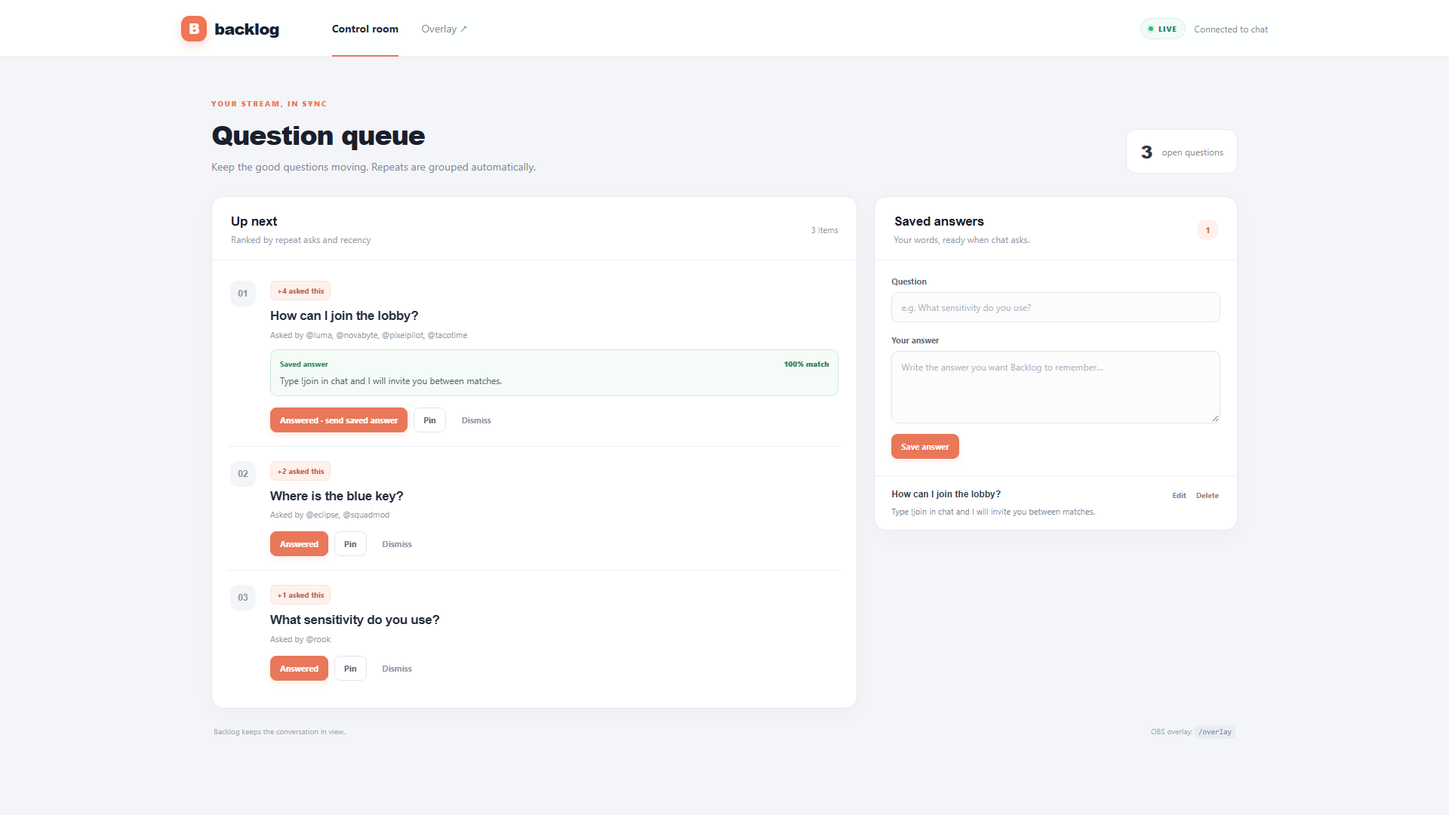
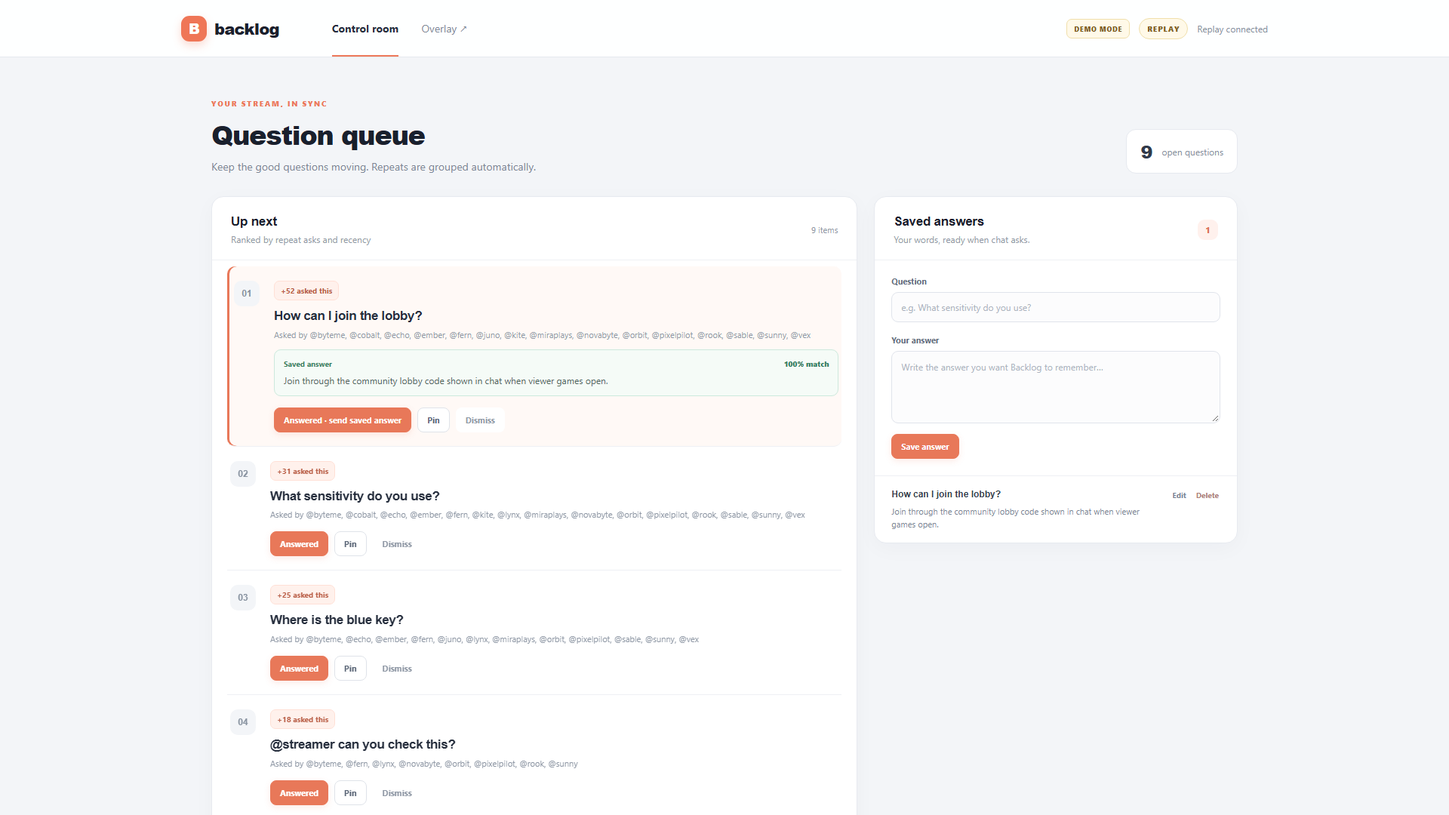
docs: polish Backlog demo and setup

diff --git a/src/web/main.tsx b/src/web/main.tsx
@@ -60,10 +60,12 @@ function CountBadge({ count }: { count: number }): JSX.Element {
 
 function Overlay(): JSX.Element {
   const { items, error } = useQueue();
+  const [mode, setMode] = useState<'demo' | 'live'>('demo');
   const visible = items.slice(0, 5);
   const listRef = useRef<HTMLDivElement>(null);
+  useEffect(() => { void api<{ mode: 'demo' | 'live' }>('/api/status').then((status) => setMode(status.mode)).catch(() => undefined); }, []);
   return <main className="overlay-shell">
-    <header className="overlay-header"><span className="brand-mark">B</span><div><p className="eyebrow">STREAMER Q&amp;A</p><h1>Backlog</h1></div><span className="live-pill"><i /> LIVE</span></header>
+    <header className="overlay-header"><span className="brand-mark">B</span><div><p className="eyebrow">STREAMER Q&amp;A</p><h1>Backlog</h1></div><span className={mode === 'demo' ? 'mode-badge demo' : 'live-pill'}>{mode === 'demo' ? 'DEMO REPLAY' : <><i /> LIVE CHAT</>}</span></header>
     {error && <p className="connection-note">{error}</p>}
     {visible.length === 0 ? <section className="overlay-empty"><span className="empty-symbol">✳</span><h2>Chat questions will land here</h2><p>We’ll group repeats so the best questions rise up.</p></section> :
       <div className="overlay-list" ref={listRef} style={{ height: `${visible.length * 130}px` }}>
@@ -79,6 +81,7 @@ function Overlay(): JSX.Element {
 
 function Control(): JSX.Element {
   const { items, error, setError } = useQueue();
+  const [selectedIndex, setSelectedIndex] = useState(0);
   const [answers, setAnswers] = useState<Answer[]>([]);
   const [question, setQuestion] = useState('');
   const [answer, setAnswer] = useState('');
@@ -92,6 +95,23 @@ function Control(): JSX.Element {
     try { await api(url, body ? { method: 'POST', body: JSON.stringify(body) } : { method: 'POST' }); setError(''); }
     catch (cause) { setError(cause instanceof Error ? cause.message : 'Action failed'); }
   };
+  useEffect(() => {
+    const onKeyDown = (event: KeyboardEvent): void => {
+      const target = event.target as HTMLElement | null;
+      if (target && (target.isContentEditable || ['INPUT', 'TEXTAREA', 'SELECT'].includes(target.tagName))) return;
+      if (event.key.toLowerCase() === 'j') { event.preventDefault(); setSelectedIndex((index) => Math.min(Math.max(0, items.length - 1), index + 1)); }
+      else if (event.key.toLowerCase() === 'k') { event.preventDefault(); setSelectedIndex((index) => Math.max(0, index - 1)); }
+      else {
+        const item = items[selectedIndex];
+        if (!item) return;
+        if (event.key.toLowerCase() === 'a') void mutate(`/api/items/${item.id}/answered`, item.suggestedAnswer ? { answerId: item.suggestedAnswer.id } : undefined);
+        else if (event.key.toLowerCase() === 'd') void mutate(`/api/items/${item.id}/dismiss`);
+        else if (event.key.toLowerCase() === 'p') void mutate(`/api/items/${item.id}/pin`);
+      }
+    };
+    window.addEventListener('keydown', onKeyDown);
+    return () => window.removeEventListener('keydown', onKeyDown);
+  }, [items, selectedIndex]);
   const saveAnswer = async (event: FormEvent): Promise<void> => {
     event.preventDefault();
     try {
@@ -102,14 +122,14 @@ function Control(): JSX.Element {
   };
 
   return <main className="control-page">
-    <header className="app-header"><a className="brand" href="/control"><span className="brand-mark">B</span><span>backlog</span></a><nav><a className="nav-active" href="/control">Control room</a><a href="/overlay" target="_blank">Overlay ↗</a></nav><div className="header-status"><span className={`mode-badge ${mode}`}>{mode === 'demo' ? 'DEMO MODE' : 'LIVE MODE'}</span><span className="live-pill"><i /> LIVE</span><span>{mode === 'demo' ? 'Replay connected' : 'Connected to chat'}</span></div></header>
+    <header className="app-header"><a className="brand" href="/control"><span className="brand-mark">B</span><span>backlog</span></a><nav><a className="nav-active" href="/control">Control room</a><a href="/overlay" target="_blank">Overlay ↗</a></nav><div className="header-status"><span className={`mode-badge ${mode}`}>{mode === 'demo' ? 'DEMO MODE' : 'LIVE MODE'}</span>{mode === 'demo' ? <span className="replay-pill">REPLAY</span> : <span className="live-pill"><i /> LIVE</span>}<span>{mode === 'demo' ? 'Replay connected' : 'Connected to chat'}</span></div></header>
     <div className="control-wrap">
       <section className="page-intro"><div><p className="eyebrow">YOUR STREAM, IN SYNC</p><h1>Question queue</h1><p>Keep the good questions moving. Repeats are grouped automatically.</p></div><div className="queue-total"><strong>{items.length}</strong><span>open questions</span></div></section>
       <Toast message={error} />
       <div className="control-grid">
         <section className="queue-panel panel"><div className="panel-heading"><div><h2>Up next</h2><p>Ranked by repeat asks and recency</p></div><span className="subtle-count">{items.length} items</span></div>
-          {items.length === 0 ? <div className="control-empty"><span className="empty-symbol">✳</span><h3>Your queue is clear</h3><p>When chat asks a question, it will show up here.</p></div> : <div className="queue-list">
-            {items.map((item, index) => <article className="queue-card" key={item.id}>
+          {items.length === 0 ? <div className="control-empty"><span className="empty-symbol">✳</span><h3>Your queue is clear</h3><p>When chat asks a question, it will show up here.</p><small>Tip: add a saved answer to speed up familiar questions.</small></div> : <div className="queue-list">
+            {items.map((item, index) => <article className={`queue-card ${index === selectedIndex ? 'keyboard-selected' : ''}`} key={item.id} onMouseEnter={() => setSelectedIndex(index)}>
               <div className="queue-rank">{String(index + 1).padStart(2, '0')}</div>
               <div className="queue-content"><div className="queue-meta"><CountBadge count={item.count} />{item.pinned && <span className="pinned-tag">Pinned</span>}</div><h3>{item.normalized || item.text}</h3><p className="asker-line">Asked by {item.askers.map((name) => `@${name}`).join(', ')}</p>{item.suggestedAnswer && <div className="suggested-answer"><div><span>Saved answer</span><strong>{Math.round(item.suggestedAnswer.score * 100)}% match</strong></div><p>{item.suggestedAnswer.answer}</p></div>}<div className="queue-actions"><button className="button button-primary" onClick={() => void mutate(`/api/items/${item.id}/answered`, item.suggestedAnswer ? { answerId: item.suggestedAnswer.id } : undefined)}>{item.suggestedAnswer ? 'Answered · send saved answer' : 'Answered'}</button><button className="button" onClick={() => void mutate(`/api/items/${item.id}/pin`)}>{item.pinned ? 'Unpin' : 'Pin'}</button><button className="button button-quiet" onClick={() => void mutate(`/api/items/${item.id}/dismiss`)}>Dismiss</button></div></div>
             </article>)}
@@ -117,10 +137,10 @@ function Control(): JSX.Element {
         </section>
         <aside className="answers-panel panel"><div className="panel-heading"><div><h2>Saved answers</h2><p>Your words, ready when chat asks.</p></div><span className="answer-count">{answers.length}</span></div>
           <form className="answer-form" onSubmit={(event) => void saveAnswer(event)}><label htmlFor="answer-question">Question</label><input id="answer-question" value={question} onChange={(event) => setQuestion(event.target.value)} placeholder="e.g. What sensitivity do you use?" required /><label htmlFor="answer-text">Your answer</label><textarea id="answer-text" value={answer} onChange={(event) => setAnswer(event.target.value)} placeholder="Write the answer you want Backlog to remember…" rows={4} required /><div className="form-actions"><button className="button button-primary" type="submit">{editingId ? 'Update answer' : 'Save answer'}</button>{editingId && <button className="button" type="button" onClick={() => { setEditingId(''); setQuestion(''); setAnswer(''); }}>Cancel</button>}{saved && <span className="saved-note">Saved</span>}</div></form>
-          <div className="saved-list">{answers.map((item) => <article className="saved-answer" key={item.id}><div><h3>{item.question}</h3><p>{item.answer}</p></div><div className="saved-actions"><button className="text-button" onClick={() => { setEditingId(item.id); setQuestion(item.question); setAnswer(item.answer); }}>Edit</button><button className="text-button text-danger" onClick={() => { void api(`/api/answers/${item.id}`, { method: 'DELETE' }).then(refreshAnswers).catch((cause: unknown) => setError(cause instanceof Error ? cause.message : 'Could not delete answer')); }}>Delete</button></div></article>)}</div>
+          <div className="saved-list">{answers.length === 0 ? <p className="answers-empty">No saved answers yet. Add one above and Backlog can suggest it when a similar question appears.</p> : answers.map((item) => <article className="saved-answer" key={item.id}><div><h3>{item.question}</h3><p>{item.answer}</p></div><div className="saved-actions"><button className="text-button" onClick={() => { setEditingId(item.id); setQuestion(item.question); setAnswer(item.answer); }}>Edit</button><button className="text-button text-danger" onClick={() => { void api(`/api/answers/${item.id}`, { method: 'DELETE' }).then(refreshAnswers).catch((cause: unknown) => setError(cause instanceof Error ? cause.message : 'Could not delete answer')); }}>Delete</button></div></article>)}</div>
         </aside>
       </div>
-      <footer className="page-footer"><span>Backlog keeps the conversation in view.</span><span>OBS overlay: <code>/overlay</code></span></footer>
+      <footer className="page-footer"><span>Shortcuts: <kbd>J</kbd>/<kbd>K</kbd> move · <kbd>A</kbd> answered · <kbd>D</kbd> dismiss · <kbd>P</kbd> pin</span><span>OBS overlay: <code>/overlay</code></span></footer>
     </div>
   </main>;
 }

diff --git a/src/eval.ts b/src/eval.ts
@@ -30,15 +30,16 @@ const raw = await readFile('data/real/labels.jsonl', 'utf8').catch(() => '');
 const labels = raw.split(/\r?\n/u).filter(Boolean).map((line) => JSON.parse(line) as Label);
 if (labels.length < 150) throw new Error(`Live evaluation needs 150 real labels in data/real/labels.jsonl; found ${labels.length}.`);
 const candidates = labels.map((item) => isCandidate({ text: item.text, channel: item.channel ?? 'eval' }));
-const stats = { input: 0, output: 0, embedding: 0 };
-const classifyBatch = async (items: Label[], context: OpenQuestionContext[] = []): Promise<Classification[]> => classify(items.map(message), {
+const fullStats = { input: 0, output: 0, embedding: 0 };
+const baselineStats = { input: 0, output: 0 };
+const classifyBatch = async (items: Label[], context: OpenQuestionContext[] = [], usage: { input: number; output: number } = fullStats): Promise<Classification[]> => classify(items.map(message), {
   apiKey: process.env.OPENAI_API_KEY!, model: process.env.OPENAI_MODEL,
-  onUsage: (usage) => { stats.input += usage.inputTokens; stats.output += usage.outputTokens; },
+  onUsage: (counts) => { usage.input += counts.inputTokens; usage.output += counts.outputTokens; },
 }, context);
 const selected = labels.filter((_item, i) => candidates[i]);
 const simpleResults: Classification[] = [];
 const startSimple = performance.now();
-for (let i = 0; i < selected.length; i += 30) simpleResults.push(...await classifyBatch(selected.slice(i, i + 30)));
+for (let i = 0; i < selected.length; i += 30) simpleResults.push(...await classifyBatch(selected.slice(i, i + 30), [], baselineStats));
 const simpleLatency = selected.length ? (performance.now() - startSimple) / Math.ceil(selected.length / 30) : 0;
 const simpleById = new Map(simpleResults.map((result) => [result.id, result]));
 const simplePred = labels.map((item, i) => candidates[i]! && (simpleById.get(item.id)?.isQuestion ?? false));
@@ -56,7 +57,7 @@ for (let i = 0; i < labels.length; i += 30) {
   batchTimes.push(performance.now() - began);
   const questionResults = results.map((result, j) => ({ result, index: indices[j]! })).filter(({ result }) => result.isQuestion);
   const vectors = await embedTexts(questionResults.map(({ result, index }) => result.normalized || labels[index]!.text), {
-    apiKey: process.env.OPENAI_API_KEY!, onUsage: (tokens) => { stats.embedding += tokens; },
+    apiKey: process.env.OPENAI_API_KEY!, onUsage: (tokens) => { fullStats.embedding += tokens; },
   });
   for (const [j, { result, index }] of questionResults.entries()) {
     fullResults[index] = result;
@@ -80,9 +81,9 @@ const systems = [
   { name: 'Full Backlog', detection: fullDetection, pair: pairAccuracy(labels, fullKeys), latency: batchTimes.length ? batchTimes.reduce((a, b) => a + b, 0) / batchTimes.length : 0 },
 ];
 const totalMessages = labels.length;
-const totalCost = stats.input * 0.1 / 1e6 + stats.output * 0.5 / 1e6 + stats.embedding * 0.02 / 1e6;
+const totalCost = fullStats.input * 0.1 / 1e6 + fullStats.output * 0.5 / 1e6 + fullStats.embedding * 0.02 / 1e6;
 const worst = labels.map((item, i) => ({ item, missed: item.isQuestion && !fullPred[i] })).filter((row) => row.missed).slice(0, 5);
-const lines = ['# Real chat evaluation', '', `Evaluated ${totalMessages} hand-labelled messages from anonymized Twitch IRC captures. Classifier: \`${process.env.OPENAI_MODEL ?? 'gpt-6-luna'}\`; duplicate merge uses embedding cosine >= 0.88.`, '', '| System | Question precision | Recall | F1 | Duplicate-pair accuracy | Avg batch latency |', '|---|---:|---:|---:|---:|---:|', ...systems.map((row) => `| ${row.name} | ${pct(row.detection.precision)} | ${pct(row.detection.recall)} | ${pct(row.detection.f1)} | ${pct(row.pair)} | ${row.latency.toFixed(0)} ms |`), '', `Measured API token cost: approximately $${(totalCost * 1000 / totalMessages).toFixed(4)} per 1,000 chat messages (classifier input ${stats.input}, output ${stats.output}, embedding ${stats.embedding} tokens).`, '', '## Worst five misses', '', ...(worst.length ? worst.map(({ item }) => `- ${item.text}`) : ['- None.']), ''];
+const lines = ['# Real chat evaluation', '', `Evaluated ${totalMessages} hand-labelled messages from anonymized Twitch IRC captures. Classifier: \`${process.env.OPENAI_MODEL ?? 'gpt-6-luna'}\`; duplicate merge uses embedding cosine >= 0.88.`, '', '| System | Question precision | Recall | F1 | Duplicate-pair accuracy | Avg batch latency |', '|---|---:|---:|---:|---:|---:|', ...systems.map((row) => `| ${row.name} | ${pct(row.detection.precision)} | ${pct(row.detection.recall)} | ${pct(row.detection.f1)} | ${pct(row.pair)} | ${row.latency.toFixed(0)} ms |`), '', `Full Backlog measured API cost: approximately $${(totalCost * 1000 / totalMessages).toFixed(4)} per 1,000 chat messages (classifier input ${fullStats.input}, output ${fullStats.output}, embedding ${fullStats.embedding} tokens). The no-context baseline used an additional input ${baselineStats.input} and output ${baselineStats.output} classifier tokens.`, '', '## Worst five misses', '', ...(worst.length ? worst.map(({ item }) => `- ${item.text}`) : ['- None.']), ''];
 const report = lines.join('\n');
 await mkdir('docs', { recursive: true });
 await writeFile('docs/EVAL.md', report, 'utf8');

diff --git a/src/web/styles.css b/src/web/styles.css
@@ -18,6 +18,7 @@ a { color: inherit; text-decoration: none; }
 .mode-badge.live { color: #287c5e; border: 1px solid #d7efe5; background: #f3fbf7; }
 .live-pill { display: inline-flex; align-items: center; gap: 7px; padding: 6px 10px; border: 1px solid #d7efe5; border-radius: 99px; color: #287c5e; background: #f3fbf7; font-size: 10px; font-weight: 800; letter-spacing: .8px; }
 .live-pill i { display: block; width: 6px; height: 6px; border-radius: 50%; background: #35b47c; box-shadow: 0 0 0 3px #35b47c22; }
+.replay-pill { padding: 6px 10px; border: 1px solid #f0dfaa; border-radius: 99px; color: #805d1b; background: #fff9e8; font-size: 10px; font-weight: 800; letter-spacing: .8px; }
 .control-wrap { max-width: 1440px; margin: 0 auto; padding: 54px 40px 26px; }
 .page-intro { display: flex; justify-content: space-between; align-items: end; margin-bottom: 30px; }
 .eyebrow { margin: 0 0 9px; color: #ec795a; font-size: 10px; font-weight: 800; letter-spacing: 1.7px; }
@@ -36,6 +37,7 @@ a { color: inherit; text-decoration: none; }
 .queue-list { padding: 8px 20px 18px; }
 .queue-card { display: grid; grid-template-columns: 40px 1fr; gap: 13px; padding: 19px 4px 18px; border-bottom: 1px solid #eef0f4; animation: appear .28s ease both; }
 .queue-card:last-child { border-bottom: 0; }
+.queue-card.keyboard-selected { border-radius: 10px; background: #fff9f6; box-shadow: inset 3px 0 #e87859; padding-left: 9px; }
 .queue-rank { display: grid; place-items: center; width: 34px; height: 34px; border-radius: 10px; color: #8993a1; background: #f3f5f8; font: 700 12px Manrope, sans-serif; }
 .queue-content { min-width: 0; }
 .queue-meta { display: flex; align-items: center; gap: 8px; min-height: 21px; }
@@ -57,6 +59,9 @@ a { color: inherit; text-decoration: none; }
 .empty-symbol { color: #ed886b; font-size: 30px; line-height: 1; }
 .control-empty h3 { margin: 16px 0 5px; color: #30394a; font: 700 16px Manrope, sans-serif; }
 .control-empty p { margin: 0; font-size: 12px; }
+.control-empty small { margin-top: 12px; color: #a0a7b1; font-size: 10px; }
+.answers-empty { padding: 16px 22px; color: #929aa6; font-size: 11px; line-height: 1.5; }
+kbd { display: inline-grid; place-items: center; min-width: 19px; padding: 2px 5px; border: 1px solid #dfe3e9; border-radius: 4px; background: white; color: #657080; font: 700 9px ui-monospace, monospace; }
 .answers-panel { overflow: hidden; }
 .answer-form { padding: 20px 22px 22px; display: flex; flex-direction: column; }
 .answer-form label { margin-bottom: 7px; color: #626d7d; font-size: 11px; font-weight: 700; }

diff --git a/src/config/env.ts b/src/config/env.ts
@@ -1,0 +1,17 @@
+import { readFile } from 'node:fs/promises';
+
+export async function loadEnvFile(path = '.env'): Promise<void> {
+  const content = await readFile(path, 'utf8').catch(() => '');
+  for (const rawLine of content.replace(/^\uFEFF/u, '').split(/\r?\n/u)) {
+    const line = rawLine.trim();
+    if (!line || line.startsWith('#')) continue;
+    const match = /^(?:export\s+)?([A-Z_][A-Z0-9_]*)\s*=\s*(.*)$/iu.exec(line);
+    if (!match) continue;
+    const key = match[1]!;
+    if (process.env[key] !== undefined) continue;
+    let value = match[2]!.trim();
+    if ((value.startsWith('"') && value.endsWith('"')) || (value.startsWith("'") && value.endsWith("'"))) value = value.slice(1, -1);
+    else value = value.replace(/\s+#.*$/u, '');
+    process.env[key] = value;
+  }
+}

diff --git a/src/record-chat.ts b/src/record-chat.ts
@@ -10,7 +10,7 @@ if (!channel || !/^[a-z0-9_]{1,25}$/u.test(channel) || !Number.isFinite(minutes)
 }
 const socket = new WebSocket('wss://irc-ws.chat.twitch.tv');
 const messages: IrcChatLine[] = [];
-const target = join('data', 'real', `${channel}-${new Date().toISOString().slice(0, 10)}.jsonl`);
+const target = join('data', 'real', `${channel}-${new Date().toISOString().replace(/[:.]/gu, '-').slice(0, 19)}.jsonl`);
 socket.on('open', () => {
   socket.send(`NICK justinfan${Math.floor(Math.random() * 1_000_000_000)}`);
   socket.send(`JOIN #${channel}`);

diff --git a/src/server/main.ts b/src/server/main.ts
@@ -13,6 +13,9 @@ import { HelixChatSender } from '../bot/helix.js';
 import { SavedAnswerQueue } from '../bot/saved-answer-queue.js';
 import { getBacklogMode } from '../config/mode.js';
 import { createApp } from './app.js';
+import { loadEnvFile } from '../config/env.js';
+
+await loadEnvFile();
 
 const dbPath = resolve(process.env.BACKLOG_DB_PATH ?? 'data/backlog.sqlite');
 await mkdir(dirname(dbPath), { recursive: true });

diff --git a/docs/BUILD-LOG.md b/docs/BUILD-LOG.md
@@ -1,14 +1,14 @@
 # Build log
 
-- Step 9: Added anonymous read-only Twitch IRC capture (`pnpm record-chat`), sender and explicit-mention pseudonyms before disk writes, a 150-message stratified interactive `pnpm label` CLI, and live-only real-data evaluation for rules-only, no-context classifier, and full Backlog with detection/merge metrics, latency, measured token cost, and worst misses. Added a 400-message explicitly synthetic replay fixture plus `pnpm replay`. Verified the demo guard: `pnpm eval` exits with “requires BACKLOG_MODE=live.” `pnpm lint`, `pnpm test` (84 passed), and `pnpm exec tsc --noEmit` passed. IRC parser and pseudonymization tests use no network; record-chat was not run. Commit: `feat: add anonymized chat evaluation workflow`.
-
-- Step 1: Added the TypeScript/pnpm repo scaffold, lockfile, lint/test scripts, env template, MIT license, and README skeleton; validated the manifest and required files. Initial install was blocked by pnpm's build policy; resolved in step 0. Commit: `chore: scaffold Backlog project`.
 - Step 0: Allowed the esbuild install script (pnpm 11 uses `allowBuilds` in `pnpm-workspace.yaml`; the requested package field is retained) and installed dependencies. `pnpm lint` passed; `pnpm test` passed with 0 tests before feature work. Commit: `build: allow esbuild install script`.
+- Step 1: Added the TypeScript/pnpm repo scaffold, lockfile, lint/test scripts, env template, MIT license, and README skeleton; validated the manifest and required files. Initial install was blocked by pnpm's build policy; resolved in step 0. Commit: `chore: scaffold Backlog project`.
 - Step 2: Added the normalized `ChatMessage`/`ChatSource`, Twitch EventSub WebSocket source (subscription, mapping, bot filtering, keepalive recovery, reconnect transfer, revocation), and timed JSONL replay source. `pnpm lint` passed; `pnpm test` passed (5 tests, no network). Commit: `feat: add EventSub and replay chat sources`.
 - Step 3: Added the cheap question candidate filter for openers, question marks, and channel mentions, with early rejection of commands, links, emote walls, short fragments, and repeated-character spam. `pnpm lint` passed; `pnpm test` passed (50 tests, including 45 candidate examples). Commit: `feat: add question candidate prefilter`.
 - Step 4: Added strict JSON-schema OpenAI classification, a two-second candidate batch pipeline, and per-channel `topicKey` merging with unique askers and repeat counts. Mocked classifier and merger tests; `pnpm lint`, `pnpm test` (56 passed), and `pnpm exec tsc --noEmit` passed. Commit: `feat: classify and merge chat questions`.
 - Step 4b: Added recent-open-item context (up to 30), cached normalized-text embeddings with semantic merge at cosine `>= 0.88`, merge score logging, and a shared OpenAI call guard (default 30/minute) with cumulative token logs. Mocked cross-batch duplicate, non-duplicate, context, boundary, and cost-guard checks; `pnpm lint`, `pnpm test` (61 passed), and `pnpm exec tsc --noEmit` passed. Commit: `fix: merge duplicate questions across batches`.
 - Step 5: Added the SQLite store for questions, per-user asker counts, saved answers, and events; five-minute half-life ranking with pinned items first; Fastify queue/item/answer REST routes; and live queue snapshots over WebSocket. `pnpm lint`, `pnpm test` (67 passed, including API/WebSocket integration), and `pnpm exec tsc --noEmit` passed. Commit: `feat: add SQLite queue API and WebSocket updates`.
-- Step 6: Built the responsive React `/overlay` and `/control` pages, queue actions, saved-answer editor, reconnecting WebSocket client, and production static serving. Ran an offline preview replay through the real pre-filter/batch/merge/store pipeline; fixed replay timestamps to rank relative to replay start. `pnpm lint`, `pnpm test` (68 passed), `pnpm exec tsc --noEmit`, and `pnpm build:web` passed. Captured [overlay](screenshots/backlog-overlay.png) and [control](screenshots/backlog-control.png) at 1920×1080. Commit: `feat: add streamer overlay and control UI`.
-- Step 7: Saved reference-question embeddings; added cached cosine answer matching (default threshold `0.82`) surfaced with a score; and connected the answered action to a queued Helix bot sender at one message per 10 seconds. Sending accepts a saved-answer ID only and reloads that answer from SQLite before posting. Mocked embedding, queue, and Helix checks; `pnpm lint`, `pnpm test` (76 passed), `pnpm exec tsc --noEmit`, and `pnpm build:web` passed. Refreshed both 1920×1080 screenshots with the saved-answer suggestion visible. Commit: `feat: suggest and send saved answers`.
-- Step 8: Added `!q` position/not-seen replies and mod/broadcaster-only `!qclear`. A successfully sent saved answer queues one follow-up mention for up to five unique askers plus an “and N others” count; all bot output shares the 10-second queue and uses fixed templates. Set `BACKLOG_MODE=demo|live`, show the mode on `/control`, added a live-only eval guard, and moved the default classifier to GPT-6 Luna. Demo-mode embeddings are deterministic local hash-bucket word vectors used only for offline UI previews; they are not OpenAI embeddings, are not semantically calibrated, and cannot be used for evaluation. `pnpm lint`, `pnpm test` (82 passed), `pnpm exec tsc --noEmit`, and `pnpm build:web` passed. Commit: `feat: add viewer queue commands and safe replies`.
+- Step 6: Built the responsive React `/overlay` and `/control` pages, queue actions, saved-answer editor, reconnecting WebSocket client, and production static serving. Ran an offline preview replay through the real pre-filter/batch/merge/store pipeline; fixed replay timestamps to rank relative to replay start. `pnpm lint`, `pnpm test` (68 passed), `pnpm exec tsc --noEmit`, and `pnpm build:web` passed. Captured the 1920x1080 overlay and control screenshots. Commit: `feat: add streamer overlay and control UI`.
+- Step 7: Saved reference-question embeddings; added cached cosine answer matching (default threshold `0.82`) surfaced with a score; and connected the answered action to a queued Helix bot sender at one message per 10 seconds. Sending accepts a saved-answer ID only and reloads that answer from SQLite before posting. Mocked embedding, queue, and Helix checks; `pnpm lint`, `pnpm test` (76 passed), `pnpm exec tsc --noEmit`, and `pnpm build:web` passed. Refreshed both screenshots with the saved-answer suggestion visible. Commit: `feat: suggest and send saved answers`.
+- Step 8: Added `!q` position/not-seen replies and mod/broadcaster-only `!qclear`. A successfully sent saved answer queues one follow-up mention for up to five unique askers plus an `and N others` count; all bot output shares the 10-second queue and uses fixed templates. Set `BACKLOG_MODE=demo|live`, show the mode on `/control`, added a live-only eval guard, and moved the default classifier to GPT-6 Luna. Demo-mode embeddings are deterministic local hash-bucket word vectors used only for offline UI previews; they are not OpenAI embeddings, are not semantically calibrated, and cannot be used for evaluation. `pnpm lint`, `pnpm test` (82 passed), `pnpm exec tsc --noEmit`, and `pnpm build:web` passed. Commit: `feat: add viewer queue commands and safe replies`.
+- Step 9: Added anonymous read-only Twitch IRC capture (`pnpm record-chat`), sender and explicit-mention pseudonyms before disk writes, a 150-message stratified interactive `pnpm label` CLI, and live-only real-data evaluation for rules-only, no-context classifier, and full Backlog with detection/merge metrics, latency, measured token cost, and worst misses. Added a 400-message explicitly synthetic replay fixture plus `pnpm replay`. Verified the demo guard: `pnpm eval` exits with `requires BACKLOG_MODE=live`. `pnpm lint`, `pnpm test` (84 passed), and `pnpm exec tsc --noEmit` passed. IRC parser and pseudonymization tests use no network; record-chat was not run. Commit: `feat: add anonymized chat evaluation workflow`.
+- Step 10: Added `/control` empty states, reconnect/error feedback, queue keyboard shortcuts (J/K move, A answer, D dismiss, P pin), accurate demo/live status badges, automatic `.env` loading, final setup/live/demo/evaluation documentation, the three-minute demo plan, and an explicit no-real-data-yet `docs/EVAL.md` placeholder. Refreshed overlay and control screenshots at 1920x1080 from the 400-message synthetic replay, including a saved-answer suggestion. `pnpm lint`, `pnpm test` (84 passed), `pnpm exec tsc --noEmit`, and `pnpm build:web` passed. Commit: `docs: polish Backlog demo and setup`.

diff --git a/README.md b/README.md
@@ -1,12 +1,100 @@
 # Backlog
 
 Backlog turns Twitch chat questions into a ranked queue for streamers.
-Repeated questions merge together, and saved answers can be suggested safely.
+It groups repeats and suggests only answers the streamer has saved.
 
-## Preview
+![Backlog control room](docs/screenshots/backlog-control.png)
 
-<!-- Add a screenshot or demo GIF here. -->
+![OBS overlay](docs/screenshots/backlog-overlay.png)
 
-## Status
+## Setup
 
-Repository scaffold. Setup and run instructions will be completed as features land.
+Requirements: Node.js 22 or newer and pnpm.
+
+1. Create a Twitch application in the Twitch Developer Console. Set the OAuth redirect URL to `http://localhost:3001/auth/twitch/callback` if you use an external OAuth helper; this build currently accepts configured tokens from the environment and does not implement the login/callback flow.
+2. Create a bot account. Authorize the bot user token with `user:read:chat` and `user:write:chat`. Configure a streamer/broadcaster token with the EventSub chat permission required for the channel. The current single `TWITCH_ACCESS_TOKEN` setting is used for both EventSub subscription and Helix chat sending, so use a token accepted for both during a live setup.
+3. Copy `.env.example` to `.env` and fill the Twitch client ID/secret, access token, broadcaster and bot user IDs, bot username, channel, and `OPENAI_API_KEY` for live mode. Keep `.env` private.
+4. Install and build:
+
+   ```sh
+   pnpm install
+   pnpm build:web
+   ```
+
+The app currently uses the token values in `.env`; streamer OAuth login and token refresh are not implemented yet.
+
+## Run
+
+Demo mode is the default and uses deterministic local demo embeddings. It is for UI previews and cannot be used for evaluation.
+
+```sh
+pnpm replay data/sample-chat.synthetic.jsonl
+```
+
+Open [http://127.0.0.1:3001/control](http://127.0.0.1:3001/control). Open `/overlay` as an OBS browser source. The fixture is synthetic and is only for the replay demo.
+
+For live chat, set `BACKLOG_MODE=live`, configure Twitch and OpenAI values in `.env`, set `CHANNEL`, `TWITCH_BROADCASTER_USER_ID`, `BOT_USER_ID`, and `BOT_USERNAME`, then run:
+
+```sh
+pnpm build:web
+pnpm server
+```
+
+The cost guard defaults to 30 OpenAI calls per minute; change `OPENAI_MAX_CALLS_PER_MINUTE` if needed. The logs report token use. Bot chat messages share a queue capped at one message per 10 seconds.
+
+## Record, label, evaluate
+
+Capture public chat without a Twitch token. Every sender and explicit `@mention` is replaced with a stable `user_N` pseudonym before the JSONL file is written:
+
+```sh
+pnpm record-chat channel_name 10
+pnpm label
+```
+
+`pnpm label` samples 150 messages, includes all prefilter candidates where possible, and asks for a yes/no label and a short topic key. After collecting and labelling real public chat, run evaluation only in live mode:
+
+```sh
+$env:BACKLOG_MODE='live' # PowerShell; use BACKLOG_MODE=live in POSIX shells
+pnpm eval
+```
+
+The report is written to `docs/EVAL.md`. It compares the rules-only prefilter, a classifier without cross-batch context, and full Backlog. The repository does not contain real chat or human labels; do not treat the synthetic replay as evaluation data. `pnpm eval` refuses demo mode.
+
+## Architecture
+
+```mermaid
+flowchart LR
+  IRC[Twitch IRC recorder] --> Anon[User pseudonyms]
+  Anon --> Labels[Human labels]
+  Labels --> Eval[Live-only evaluation]
+  EventSub[Twitch EventSub] --> Filter[Question prefilter]
+  Replay[Synthetic replay] --> Filter
+  Filter --> Batch[2 second classifier batches]
+  Batch --> Merge[Topic keys and embedding merge]
+  Merge --> SQLite[(SQLite queue and answers)]
+  SQLite --> API[Fastify REST and WebSocket]
+  API --> Control[Streamer control page]
+  API --> Overlay[OBS overlay]
+  Control --> SafeBot[Saved-answer-only bot]
+  SafeBot --> Helix[Twitch Helix chat]
+```
+
+## Limits and safety
+
+- Backlog does not generate answers. It suggests a saved answer only above the configured embedding threshold, and the bot sends only a saved answer selected by ID.
+- Demo embeddings are local word-hash vectors. They are not semantic embeddings and demo mode is blocked from evaluation.
+- Real evaluation depends on the channel mix and the quality of human labels. Duplicate pair accuracy is calculated over labelled question pairs.
+- The current build has no OAuth login/callback or token refresh flow. Live access tokens must be configured outside the app.
+- The recorder stores message text and pseudonymous user labels, not Twitch usernames or IDs. Avoid recording private information in public chat; captured files are local data and are not uploaded by the recorder.
+- Twitch and OpenAI availability, API limits, and model pricing can change.
+
+## Development
+
+```sh
+pnpm lint
+pnpm test
+pnpm exec tsc --noEmit
+pnpm build:web
+```
+
+MIT licensed; see [LICENSE](LICENSE).

diff --git a/docs/DEMO.md b/docs/DEMO.md
@@ -1,0 +1,40 @@
+# Three-minute demo recording
+
+Use a test channel and a bot account you control. The 400-message fixture is synthetic replay data. To show a real bot message in chat, configure valid Twitch credentials and run the replay in live mode; live mode calls OpenAI and can send chat messages.
+
+## Before recording
+
+Build the UI and start the app with a fast synthetic replay. This starts the same queue pipeline used by live EventSub messages:
+
+```powershell
+pnpm install
+pnpm build:web
+$env:BACKLOG_MODE='live'
+$env:BACKLOG_REPLAY_FILE='data/sample-chat.synthetic.jsonl'
+$env:REPLAY_SPEED='12'
+pnpm server
+```
+
+Use `BACKLOG_MODE=live` and Twitch bot credentials in `.env`; add a saved answer in Control before the relevant question appears. Keep the channel under your control because the demo posts saved text to its chat.
+
+## Recording (3:00)
+
+| Time | Show and say |
+|---|---|
+| 0:00–0:25 | Show the control page and overlay. Explain that repeated chat questions get buried during a stream. |
+| 0:25–1:00 | Start or restart the replay with the command above. Show the queue filling from chat at `/control` and `/overlay`. |
+| 1:00–1:30 | Point out duplicate wording collapsing into one row and the `+N asked this` count rising as repeats arrive. |
+| 1:30–2:00 | Select the suggested saved answer and press **Answered · send saved answer**. Show the saved text posted in the controlled Twitch channel. The askers receive one follow-up mention message. |
+| 2:00–2:25 | In Twitch chat, type `!q` as a viewer and show the bot's queue position. Type `!qclear` as a moderator/broadcaster only if demonstrating queue reset. |
+| 2:25–3:00 | Open `docs/EVAL.md` and explain the three-system precision/recall/F1 and duplicate-pair comparison. Use this segment after real chat has been recorded and labelled; do not present synthetic replay as evaluation. |
+
+For recording the real data used by the eval segment, run these separately ahead of time:
+
+```powershell
+pnpm record-chat channel_name 10
+pnpm label
+$env:BACKLOG_MODE='live'
+pnpm eval
+```
+
+`pnpm record-chat` is intentionally not part of the demo startup command. Usernames are pseudonymized before the recorder writes its JSONL file.

diff --git a/docs/EVAL.md b/docs/EVAL.md
@@ -1,0 +1,5 @@
+# Real chat evaluation
+
+Not run yet. The repository does not include real Twitch chat captures or human labels, and synthetic replay data is excluded from evaluation.
+
+After recording and labelling at least 150 real public chat messages, set `BACKLOG_MODE=live` and run `pnpm eval`. The command writes the measured precision, recall, F1, duplicate-pair accuracy, batch latency, token cost, and worst misses here.
